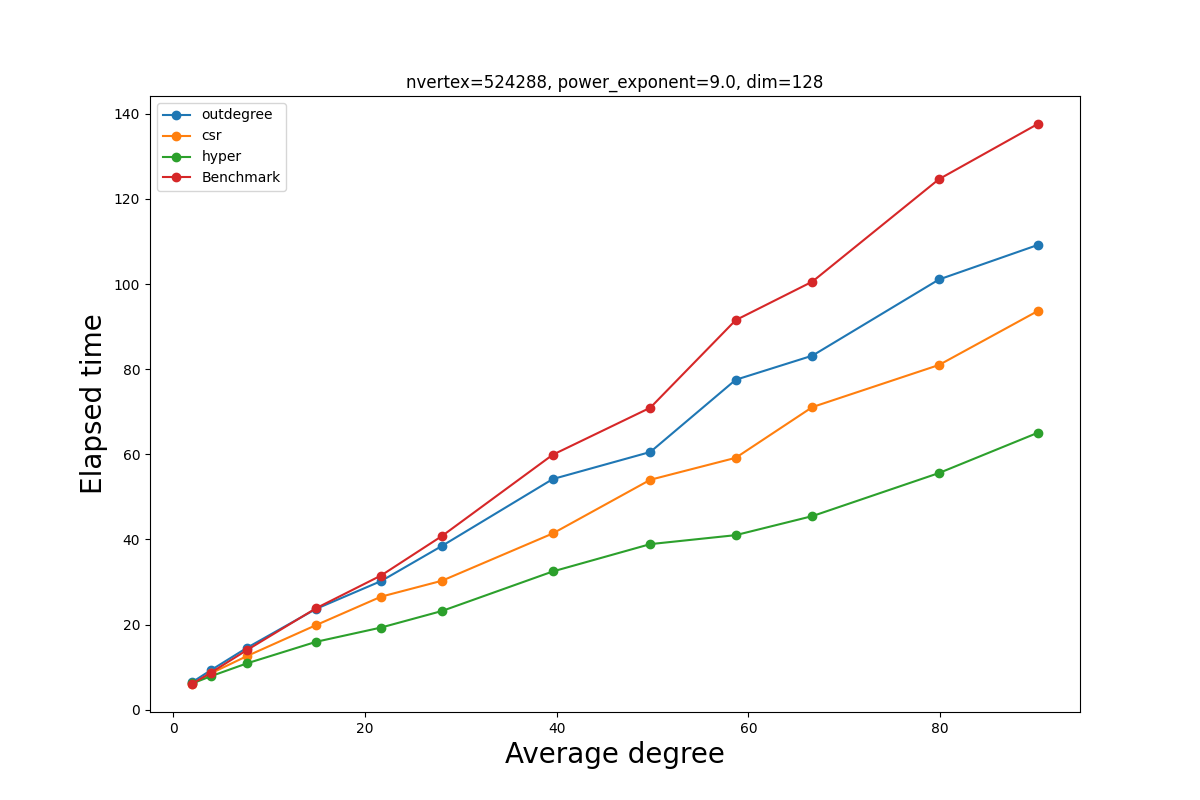
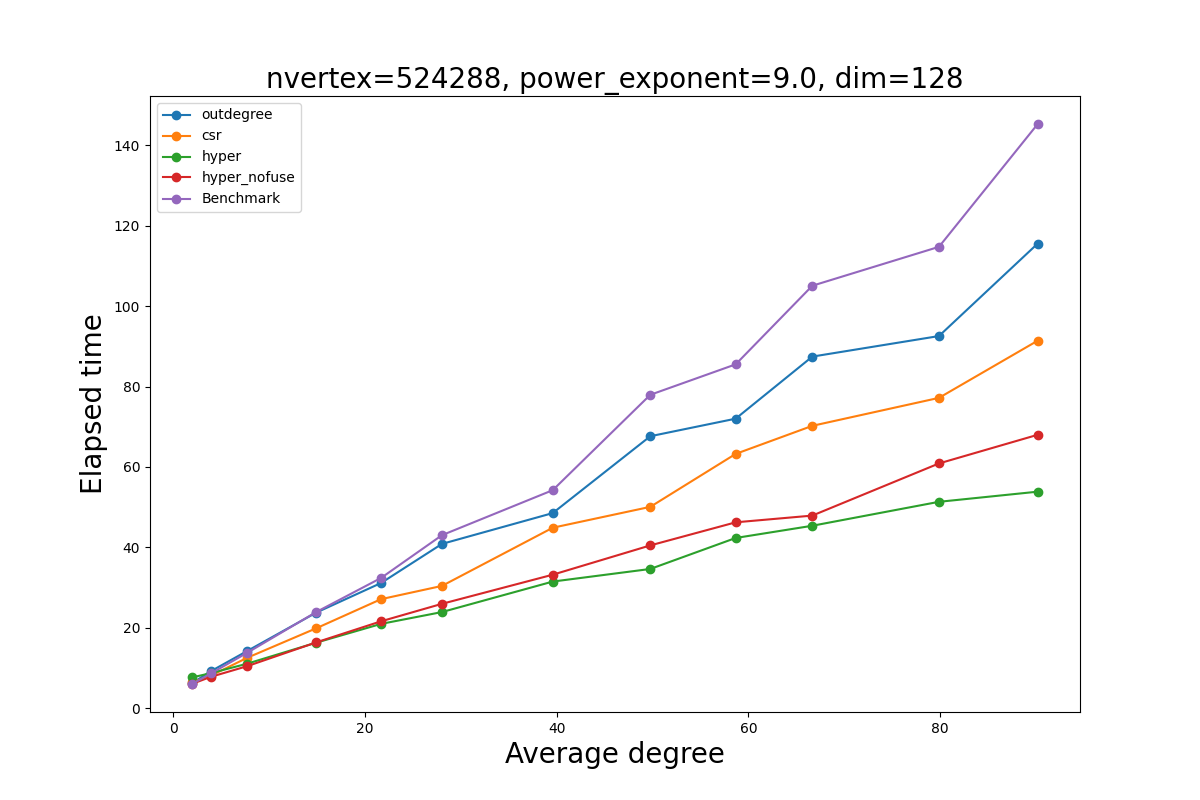
update graphworld result

diff --git a/dgNN/utils/graphworld_statistics.py b/dgNN/utils/graphworld_statistics.py
@@ -19,7 +19,7 @@ def mean(arr):
 
 
 def main(args):
-    formats = ["outdegree", "csr", "hyper"]
+    formats = ["outdegree", "csr", "hyper", "hyper_nofuse"]
     avg_degrees = [2, 4, 8, 16, 24, 32, 48, 64, 80, 96, 128, 160]
     # avg_degrees = [2, 4, 8, 16, 24, 32, 48, 64, 80, 96, 112,128, 160]
 
@@ -60,7 +60,7 @@ def main(args):
     plt.plot(avg_degree_all[0], time_no_fuse_all[0], "o-", label="Benchmark")
 
     # plt.xticks(avg_degrees)
-    plt.title(title)
+    plt.title(title, fontsize=20)
     plt.legend()
     plt.savefig(save_dir + "_time.png")
 
@@ -71,7 +71,7 @@ def main(args):
         speedup_mean = np.array(time_no_fuse_all[0]) / np.array(time_fuse_all[i])
         plt.plot(avg_degree_all[0], speedup_mean, "o-", label=format)
 
-    plt.title(title)
+    plt.title(title, fontsize=20)
     plt.legend()
     plt.savefig(save_dir + "_speedup.png")
 

diff --git a/dgNN/utils/graph_statistics.py b/dgNN/utils/graph_statistics.py
@@ -169,7 +169,7 @@ def plot_dataset_perf(args):
     plt.yscale("log")
 
     # plt.xticks(batch_sizes)
-    plt.title(title)
+    plt.title(title, fontsize=20)
     plt.legend()
     plt.savefig(save_dir + "_time.png")
 
@@ -180,7 +180,7 @@ def plot_dataset_perf(args):
         speedup_mean = np.array(time_no_fuse_all[0]) / np.array(time_fuse_all[i])
         plt.plot(batch_sizes, speedup_mean, "o-", label=format)
     plt.xticks(batch_sizes)
-    plt.title(title)
+    plt.title(title, fontsize=20)
     # plt.xscale("log")
     # plt.yscale("log")
     plt.ylim(bottom=1)
